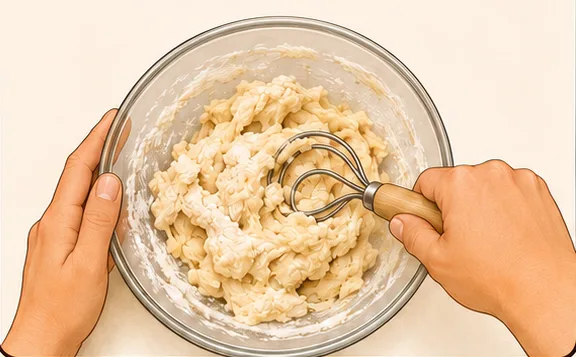
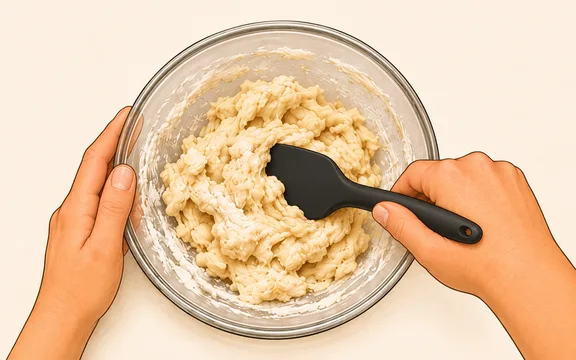
Show a silicone spatula in the hoagie mixing illustration

diff --git a/docs/recipes/lightly-enriched-hoagie.md b/docs/recipes/lightly-enriched-hoagie.md
@@ -79,7 +79,7 @@ Need a scale? <AffiliateLink product-key="kitchenaid-digital-scale">KitchenAid D
 - Combine ingredients until a rough dough forms.
 
 <figure>
-  <img src="/images/recipes/lightly-enriched-hoagie/rough-dough.webp" alt="Shaggy dough just after mixing in a bowl." width="576" height="357" loading="lazy" />
+  <img src="/images/recipes/lightly-enriched-hoagie/rough-dough.webp" alt="A black silicone spatula stirs shaggy dough in a mixing bowl." width="576" height="360" loading="lazy" />
   <figcaption><strong>Rough dough</strong></figcaption>
 </figure>
 
